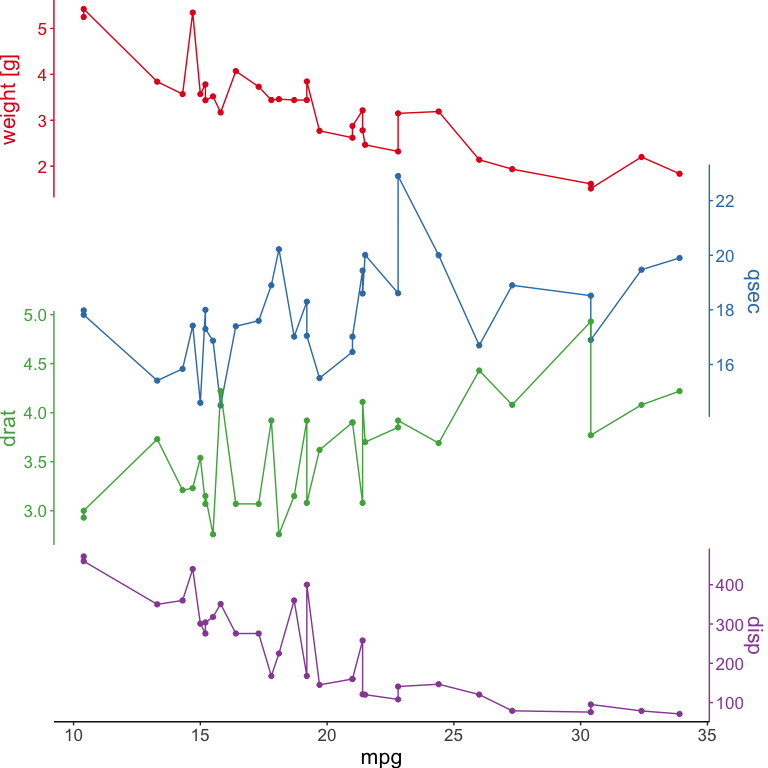
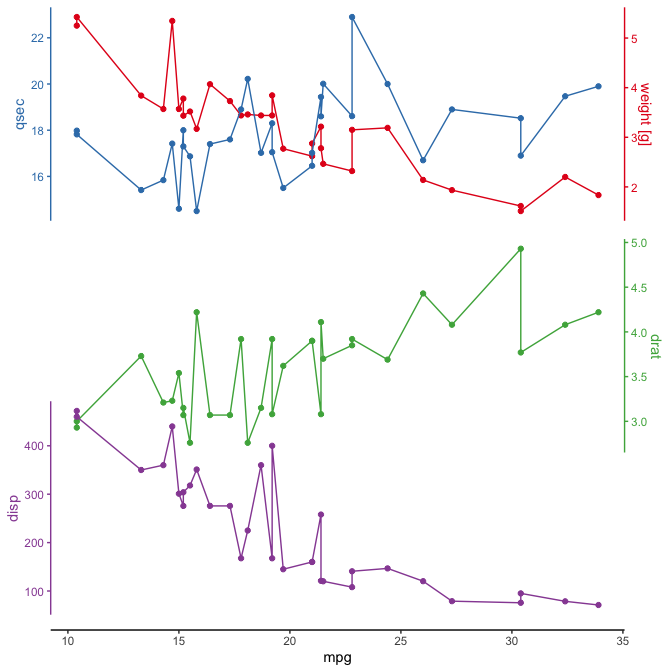
implement horizontal stack plots

diff --git a/README.md b/README.md
@@ -28,8 +28,6 @@ devtools::install_github("KopfLab/ggstackplot")
 
 ## Example
 
-This is a basic example which shows you how to solve a common problem:
-
 ``` r
 library(ggstackplot)
 ggstackplot(
@@ -37,8 +35,12 @@ ggstackplot(
   x = mpg,
   y = c(`weight [g]` = wt, qsec, drat, disp),
   color = c("#E41A1C", "#377EB8", "#4DAF4A", "#984EA3"),
-  overlap = c(0.1, 0.3, 0)
+  overlap = c(1, 0, 0.3)
 )
 ```
 
 <img src="man/figures/README-example-1.png" width="100%" />
+
+## Next steps
+
+- check out the `Features` and `Examples` vignettes on …
